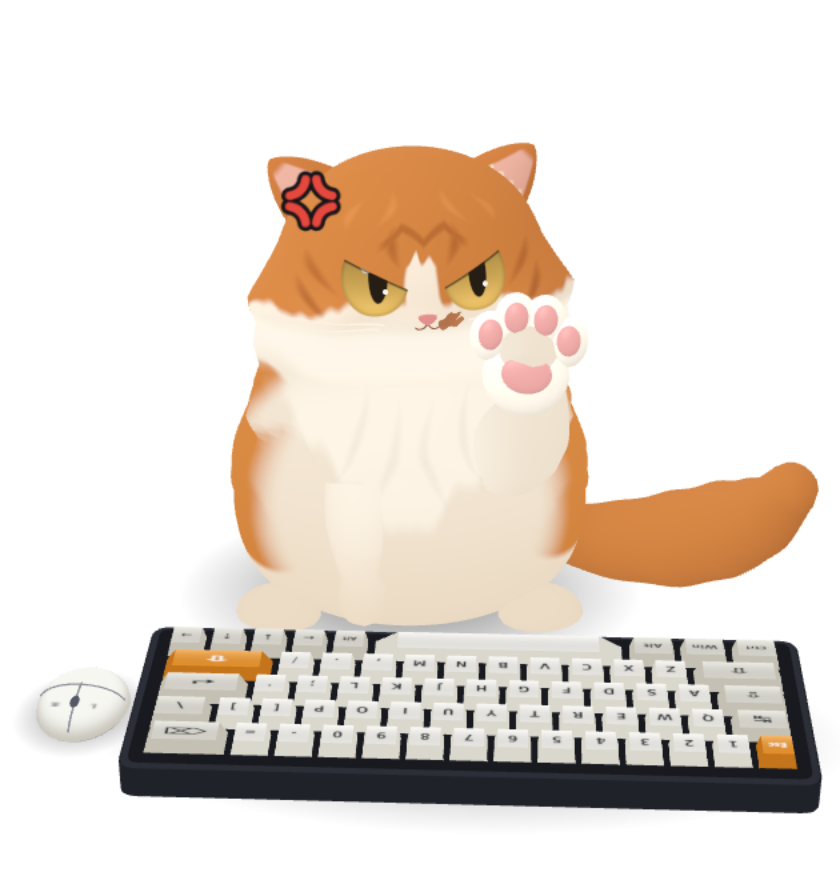
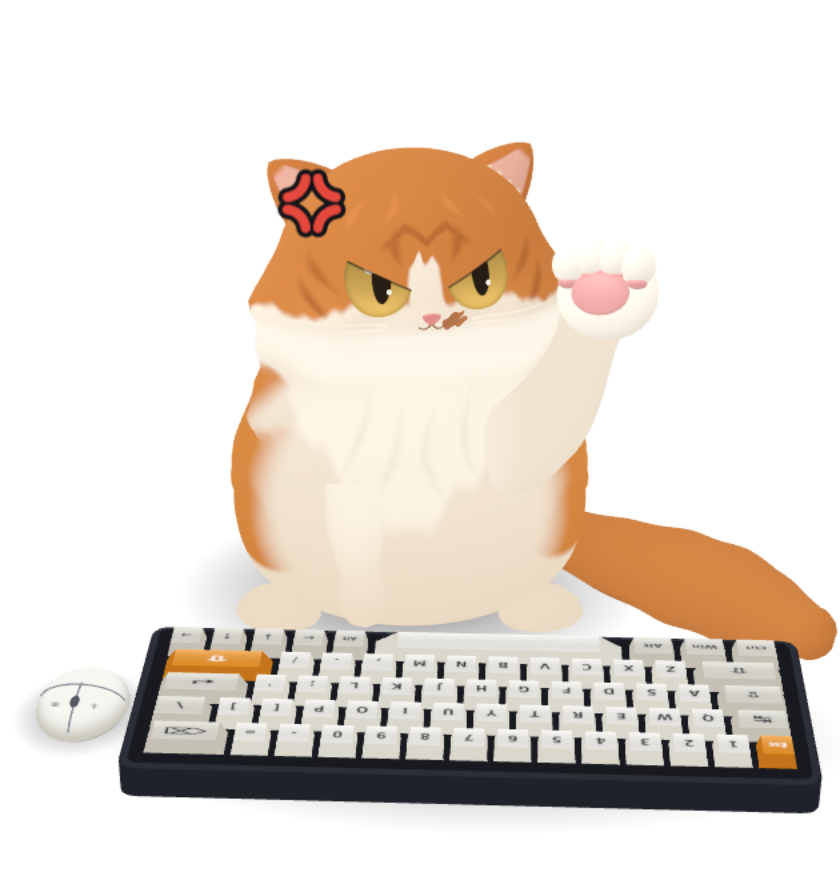
feat: curl swat paw into a half-fist and stamp screen paw prints

diff --git a/src/catEngine3d.ts b/src/catEngine3d.ts
@@ -6,6 +6,7 @@ import type { KeyboardOrientation, TailKeyMode } from './catEngine';
 import { DEFAULT_TAIL_KEY_IDS } from './catEngine';
 import { catAudio } from './audio';
 import { HeadPatSwat, normalizeSwatChance } from './headPatSwat';
+import { ScreenPawPrint3D } from './screenPawPrint3d';
 import {
   FurShaderSystem,
   resolveFurPalette3D,
@@ -516,7 +517,13 @@ export class KuroCatEngine3D {
 
   public setTailPickerActive(active: boolean): void {
     this.tailPickerActive = active;
-    if (active) this.headPatSwat.cancel();
+    if (active) this.cancelHeadPatSwat();
+  }
+
+  private cancelHeadPatSwat(): void {
+    this.headPatSwat.cancel();
+    this.swatPalm.visible = false;
+    this.pawPrint.clear();
   }
 
   public hitTestKeyAtClientPoint(clientX: number, clientY: number) {
@@ -614,8 +621,10 @@ export class KuroCatEngine3D {
   // Shared materials updated on skin switch
   private readonly pawMat: THREE.ShaderMaterial;
   private readonly swatPalm = new THREE.Group();
+  private readonly swatToes: THREE.Group[] = [];
   private readonly swatPalmMat = createHeadsetMaterial('#fff7e9', 0.06, 0.10, '#fff4df');
   private readonly swatPadMat = createHeadsetMaterial('#e7a5a2', 0.10, 0.12, '#f9d4c8');
+  private readonly pawPrint: ScreenPawPrint3D;
   private readonly hindPaws: THREE.Mesh[] = [];
   private readonly toeMat = new THREE.MeshBasicMaterial({ color: '#343640', depthTest: true });
   private readonly lidArcMat = new THREE.MeshBasicMaterial({
@@ -850,6 +859,8 @@ export class KuroCatEngine3D {
     this.renderer.outputColorSpace = THREE.SRGBColorSpace;
 
     this.camera = new THREE.PerspectiveCamera(22, 1.35, 0.1, 100);
+    this.scene.add(this.camera);
+    this.pawPrint = new ScreenPawPrint3D(this.camera);
     this.desk = new KeyboardAndMouse3D(this.scene);
     this.pawMat = this.furSystem.createMaterial('PAW');
 
@@ -1175,30 +1186,30 @@ export class KuroCatEngine3D {
       });
     }
 
-    // Two merged meshes form a white mitten and five softly raised pink pads.
-    // They share the existing studio shader, so this stays a true 3D paw.
+    // Compact half-fist: four adjacent toes curl over the palm, rather than
+    // spreading into an open hand. Their pads turn underneath on the punch.
     const padSphere = new THREE.SphereGeometry(1, 18, 12);
-    const lobes = [
-      [0, -0.028, 0, 0.135, 0.125, 0.065],
-      [-0.12, 0.084, 0.004, 0.063, 0.078, 0.060],
-      [-0.045, 0.142, 0.004, 0.067, 0.083, 0.061],
-      [0.045, 0.142, 0.004, 0.067, 0.083, 0.061],
-      [0.12, 0.084, 0.004, 0.063, 0.078, 0.060],
-    ];
-    const parts = (pads: boolean) => lobes.map(([x, y, z, sx, sy, sz], index) => ({
-      geo: padSphere,
-      matrix: new THREE.Matrix4().compose(
-        new THREE.Vector3(x, y, pads ? 0.066 : z),
-        new THREE.Quaternion(),
-        pads ? new THREE.Vector3(index === 0 ? 0.078 : 0.037, index === 0 ? 0.060 : 0.047, 0.022)
-          : new THREE.Vector3(sx, sy, sz),
-      ),
-    }));
+    const pawPart = (mat: THREE.Material, pos: number[], size: number[]) => {
+      const mesh = new THREE.Mesh(padSphere, mat);
+      mesh.position.set(pos[0], pos[1], pos[2]);
+      mesh.scale.set(size[0], size[1], size[2]);
+      return mesh;
+    };
     this.swatPalm.add(
-      new THREE.Mesh(mergeStaticGeometries(parts(false)), this.swatPalmMat),
-      new THREE.Mesh(mergeStaticGeometries(parts(true)), this.swatPadMat),
+      pawPart(this.swatPalmMat, [0, -0.025, 0], [0.142, 0.128, 0.100]),
+      pawPart(this.swatPadMat, [0, -0.041, 0.098], [0.080, 0.062, 0.021]),
     );
-    padSphere.dispose();
+    for (let i = 0; i < 4; i++) {
+      const toe = new THREE.Group();
+      const edge = i === 0 || i === 3;
+      toe.position.set((i - 1.5) * 0.063, edge ? 0.057 : 0.074, 0.027);
+      toe.add(
+        pawPart(this.swatPalmMat, [0, 0.045, 0.012], [0.047, 0.078, 0.055]),
+        pawPart(this.swatPadMat, [0, 0.056, 0.062], [0.028, 0.036, 0.016]),
+      );
+      this.swatToes.push(toe);
+      this.swatPalm.add(toe);
+    }
     this.swatPalm.visible = false;
     this.scene.add(this.swatPalm);
 
@@ -1548,7 +1559,7 @@ export class KuroCatEngine3D {
   }
 
   public stop(): void {
-    this.headPatSwat.cancel();
+    this.cancelHeadPatSwat();
     if (this.rafId !== null) {
       cancelAnimationFrame(this.rafId);
       this.rafId = null;
@@ -1594,6 +1605,7 @@ export class KuroCatEngine3D {
       this.elapsed - this.cursorActiveAt < 2.4 ||
       this.isCross ||
       this.headPatSwat.isActive(this.elapsed * 1000) ||
+      this.pawPrint.sprite.visible ||
       this.petting ||
       this.elapsed < this.curiousUntil ||
       this.popups.length > 0 ||
@@ -1637,7 +1649,7 @@ export class KuroCatEngine3D {
   };
 
   public setCatSkin(skin: CatSkinConfig): void {
-    if (this.currentSkin?.id !== skin.id) this.headPatSwat.cancel();
+    if (this.currentSkin?.id !== skin.id) this.cancelHeadPatSwat();
     this.currentSkin = skin;
     this.swatPalmMat.uniforms.uBase.value.set(skin.bellyBibColor ?? skin.pawColor ?? skin.furColor);
     const p = resolveFurPalette3D(skin, this.renderStyle);
@@ -1781,7 +1793,7 @@ export class KuroCatEngine3D {
   }
 
   public setPrivacyMode(active: boolean): void {
-    if (active) this.headPatSwat.cancel();
+    if (active) this.cancelHeadPatSwat();
     this.privacyMode = active;
     if (active) {
       this.desk.releaseAllKeys();
@@ -2704,11 +2716,19 @@ export class KuroCatEngine3D {
     this.swatPalm.visible = Boolean(longhair && swatPose && swatPose.lift > 0.12 && !this.privacyMode);
     if (this.swatPalm.visible && swatPose) {
       this.swatPalm.position.copy(this.paws.R.pos);
-      // Turn the underside toward the viewer while raising and sweeping.
+      // Show the underside on the windup; curl the toes into rounded knuckles
+      // and tip the fist forward at contact. The central pad stays visible.
       this.swatPalm.quaternion.copy(this.camera.quaternion);
-      this.swatPalm.rotateZ(-0.22 + swatPose.x * 0.20);
-      this.swatPalm.scale.setScalar(swatPose.weight * (1 + swatPose.reach * 0.15));
+      this.swatPalm.rotateZ(-0.20 + swatPose.x * 0.15);
+      this.swatPalm.rotateY(-0.28);
+      this.swatPalm.rotateX(-0.18 * swatPose.grip);
+      this.swatPalm.scale.setScalar(swatPose.weight * (1.12 + swatPose.reach * 0.18));
+      for (const toe of this.swatToes) toe.rotation.x = 0.65 + swatPose.grip * 1.45;
     }
+    if (this.headPatSwat.takeImpact(t * 1000)) {
+      this.pawPrint.stamp(this.paws.R.pos, this.camera, t);
+    }
+    this.pawPrint.update(t, this.camera);
 
     // 10) Floating Key Bubbles, Anger Mark 💢 & Sleep Zzz FX
     for (let i = this.popups.length - 1; i >= 0; i--) {

diff --git a/src/screenPawPrint3d.ts b/src/screenPawPrint3d.ts
@@ -1,0 +1,76 @@
+import * as THREE from 'three';
+import { smoothstep } from './keyboard3d';
+
+const PRINT_LIFETIME = 1.65;
+
+function makePawPrintTexture(): THREE.CanvasTexture {
+  const canvas = document.createElement('canvas');
+  canvas.width = canvas.height = 256;
+  const ctx = canvas.getContext('2d')!;
+  ctx.fillStyle = '#e28398';
+  ctx.shadowColor = '#d95f8266';
+  ctx.shadowBlur = 5;
+  // A pressed, slightly squashed paw pad, with four separate toe impressions.
+  ctx.beginPath();
+  ctx.moveTo(128, 129);
+  ctx.bezierCurveTo(107, 126, 98, 147, 83, 165);
+  ctx.bezierCurveTo(61, 193, 84, 215, 108, 203);
+  ctx.quadraticCurveTo(128, 194, 148, 203);
+  ctx.bezierCurveTo(172, 215, 195, 193, 173, 165);
+  ctx.bezierCurveTo(158, 147, 149, 126, 128, 129);
+  ctx.fill();
+  for (const [x, y, rotation] of [[62, 113, -0.5], [103, 79, -0.15], [151, 79, 0.15], [192, 113, 0.5]]) {
+    ctx.beginPath();
+    ctx.ellipse(x, y, 20, 28, rotation, 0, Math.PI * 2);
+    ctx.fill();
+  }
+  const texture = new THREE.CanvasTexture(canvas);
+  texture.colorSpace = THREE.SRGBColorSpace;
+  return texture;
+}
+
+/** Camera-space ink: stays on the glass as the paw retracts or the cat rotates. */
+export class ScreenPawPrint3D {
+  public readonly sprite = new THREE.Sprite(new THREE.SpriteMaterial({
+    map: makePawPrintTexture(),
+    transparent: true,
+    depthTest: false,
+    depthWrite: false,
+    toneMapped: false,
+    rotation: -0.18,
+  }));
+  private readonly anchor = new THREE.Vector3();
+  private stampedAt = -Infinity;
+
+  constructor(camera: THREE.PerspectiveCamera) {
+    this.sprite.visible = false;
+    this.sprite.renderOrder = 1000;
+    camera.add(this.sprite);
+  }
+
+  public clear(): void {
+    this.stampedAt = -Infinity;
+    this.sprite.visible = false;
+  }
+
+  public stamp(worldPoint: THREE.Vector3, camera: THREE.PerspectiveCamera, now: number): void {
+    camera.updateMatrixWorld();
+    this.anchor.copy(worldPoint).project(camera);
+    this.stampedAt = now;
+    this.update(now, camera);
+  }
+
+  public update(now: number, camera: THREE.PerspectiveCamera): void {
+    const age = now - this.stampedAt;
+    this.sprite.visible = age >= 0 && age < PRINT_LIFETIME;
+    if (!this.sprite.visible) return;
+    // z=-1 is beyond the camera near plane. Position and size use the same
+    // projection, keeping the imprint fixed through orbit/resize and above fur.
+    const halfHeight = Math.tan(THREE.MathUtils.degToRad(camera.fov / 2));
+    this.sprite.position.set(this.anchor.x * halfHeight * camera.aspect, this.anchor.y * halfHeight, -1);
+    const settle = 1 + 0.12 * (1 - smoothstep(0, 0.16, age));
+    this.sprite.scale.setScalar(halfHeight * 0.34 * settle);
+    // Let the fist land before the ink appears over it.
+    this.sprite.material.opacity = 0.88 * smoothstep(0, 0.08, age) * (1 - smoothstep(0.65, PRINT_LIFETIME, age));
+  }
+}

diff --git a/src/headPatSwat.ts b/src/headPatSwat.ts
@@ -1,6 +1,7 @@
 export const DEFAULT_HEAD_PAT_SWAT_CHANCE = 0.25;
 export const SWAT_DURATION_MS = 780;
 export const SWAT_COOLDOWN_MS = 3000;
+export const SWAT_IMPACT_MS = SWAT_DURATION_MS * 0.52;
 
 export function normalizeSwatChance(value: number | undefined): number {
   return typeof value === 'number' && Number.isFinite(value)
@@ -11,18 +12,19 @@ export function normalizeSwatChance(value: number | undefined): number {
 // x/lift/reach are local to the 3D cat;
 // the original body, markings, tail and materials continue rendering throughout.
 const POSES = [
-  { t: 0, x: 0.32, lift: 0, reach: 0 },
-  { t: 0.22, x: 0.95, lift: 0.65, reach: 0.1 },
-  { t: 0.38, x: 0.65, lift: 0.84, reach: 0.65 },
-  { t: 0.52, x: -0.55, lift: 0.7, reach: 1 },
-  { t: 0.72, x: 0.2, lift: 0.4, reach: 0.25 },
-  { t: 1, x: 0.32, lift: 0, reach: 0 },
+  { t: 0, x: 0.32, lift: 0, reach: 0, grip: 0.35 },
+  { t: 0.22, x: 0.95, lift: 0.65, reach: 0.1, grip: 0.35 },
+  { t: 0.38, x: 1.05, lift: 0.95, reach: 0.2, grip: 0.55 },
+  { t: 0.52, x: 1.3, lift: 1.12, reach: 1.15, grip: 1 },
+  { t: 0.72, x: 0.4, lift: 0.4, reach: 0.25, grip: 0.7 },
+  { t: 1, x: 0.32, lift: 0, reach: 0, grip: 0.35 },
 ];
 
 export class HeadPatSwat {
   public chance = DEFAULT_HEAD_PAT_SWAT_CHANCE;
   private startedAt = -Infinity;
   private rolledAt = -Infinity;
+  private impactPending = false;
   private last: { x: number; y: number; at: number } | null = null;
   private direction: { x: number; y: number } | null = null;
   private travel = 0;
@@ -37,6 +39,7 @@ export class HeadPatSwat {
 
   public cancel(): void {
     this.startedAt = -Infinity;
+    this.impactPending = false;
     this.resetGesture();
   }
 
@@ -90,8 +93,16 @@ export class HeadPatSwat {
     this.rolledAt = now; // Normal reactions also consume this roll's cooldown.
     if (random() >= normalizeSwatChance(this.chance)) return false;
     this.startedAt = now;
+    this.impactPending = true;
     this.resetGesture();
     return true;
+  }
+
+  /** Consume once on the first frame reaching contact, including a skipped frame. */
+  public takeImpact(now: number): boolean {
+    if (!this.impactPending || now < this.startedAt + SWAT_IMPACT_MS) return false;
+    this.impactPending = false;
+    return this.isActive(now);
   }
 
   public pose(now: number) {
@@ -108,6 +119,7 @@ export class HeadPatSwat {
       x: mix(a.x, b.x),
       lift: mix(a.lift, b.lift),
       reach: mix(a.reach, b.reach),
+      grip: mix(a.grip, b.grip),
       weight: Math.min(1, t / 0.12, (1 - t) / 0.18),
       anger: Math.min(1, t / 0.08, (1 - t) / 0.22),
     };

diff --git a/docs/skins/orange-white-longhair/head-pat-swat.md b/docs/skins/orange-white-longhair/head-pat-swat.md
@@ -1,14 +1,24 @@
-# 发财 3D：生气挥爪（DEV-156）
+# 发财 3D：生气出拳与屏幕爪印（DEV-156）
 
 在猫咪头部来回抚摸，默认有 25% 概率生气并伸爪挥一下。右键菜单「摸头挥爪概率」可选关闭、25%、50%、100%；MCP `update_settings` 和 `settings.json` 的 `headPatSwatChance` 支持任意 0～1 数值。旧配置默认 0.25。
 
-![发财生气、举爪露出粉色肉垫、挥爪后恢复](head-pat-swat.gif)
+![发财生气、半握拳露肉垫、出拳并留下屏幕爪印](head-pat-swat.gif)
 
 ## 表情与前爪
 
-动作播放 780ms，依次抬爪、掌心朝向观众、横挥、收爪。举爪时露出白手套中的粉色掌垫和四个趾垫，全部为有厚度的 3D 网格，使用项目已有的立体着色器；角色身体、鼻旁橘斑、白鼻梁、白毛领与橘色大尾巴继续由原长毛模型绘制。
+动作播放 780ms，依次半握抬爪、蓄力、向屏幕出拳、收爪。四个趾头并拢向掌心卷起，出拳时进一步收紧，形成圆润的拳头；举爪阶段仍能看到粉色掌垫和卷起的趾垫。白手套、掌垫和趾垫全部为有厚度的 3D 网格，使用项目已有的立体着色器；角色身体、鼻旁橘斑、白鼻梁、白毛领与橘色大尾巴继续由原长毛模型绘制。
 
 生气表情在抬爪初段快速出现，并覆盖挥爪阶段：眼睑向鼻梁压低、瞳孔收紧、双耳折成飞机耳，头侧出现怒气符号。动作结束后眼睛、怒气符号及肉垫收回，不写入长期生气状态；隐私模式可立即中断。挥爪时暂停普通眯眼呼噜及好奇表情。
+
+![半握抬爪时可见肉垫](head-pat-swat.png)
+
+## 屏幕爪印
+
+出拳接触点约在第 406ms，每次动作只盖一次粉色爪印。爪印在接触后的 80ms 内显现，收拳后继续留在桌宠透明窗口内的屏幕落点，先停留再淡出，约 1.65 秒清除。爪印固定在屏幕坐标，收爪或转动视角不会带走它，也不增加鼠标捕获区域。
+
+爪印使用透明纹理和相机空间精灵覆盖在角色前方；角色仍以原来的透明背景渲染。隐私模式、换肤、停止渲染和进入尾巴选键都会立即清除爪印，并取消尚未发生的接触事件。
+
+![收拳后屏幕落点仍保留爪印](head-pat-swat-print.png)
 
 ## 仅提供 3D 发财
 
@@ -20,9 +30,9 @@
 
 桌面端通过 `kuro-cursor` 将归一化光标位置与粗略 `overCat` 判定传给渲染器。`src/catEngine3d.ts` 将桌面和网页两条指针路径都细化到真实头部射线检测。
 
-`src/headPatSwat.ts` 负责手势、抽签冷却、前爪关键姿势与生气表情包络。至少两次 14 逻辑像素的反向移动才是有效抚摸；过滤静止悬停、抖动、单次路过及瞬移。每次抽签后冷却 3 秒，普通反应也占用冷却，避免连续移动反复抽签。鼠标／按键按住、隐私模式、尾巴选键期间不启动新动作。
+`src/headPatSwat.ts` 负责手势、抽签冷却、前爪姿势／握拳程度、生气表情包络及一次性的接触事件。至少两次 14 逻辑像素的反向移动才是有效抚摸；过滤静止悬停、抖动、单次路过及瞬移。每次抽签后冷却 3 秒，普通反应也占用冷却，避免连续移动反复抽签。鼠标／按键按住、隐私模式、尾巴选键期间不启动新动作。
 
-`src/longhair3d.ts` 的眼睛材质接收生气程度，切出斜上眼睑并收紧瞳孔；现有耳朵与怒气特效使用同一表情程度。3D 白手套、掌垫和趾垫随右前爪移动，举爪时将掌心转向观众。没有独立的 2D 挥爪素材。
+`src/longhair3d.ts` 的眼睛材质接收生气程度，切出斜上眼睑并收紧瞳孔；现有耳朵与怒气特效使用同一表情程度。`src/catEngine3d.ts` 驱动四个趾头卷曲；`src/screenPawPrint3d.ts` 负责落点投影、相机空间定位及爪印显现／淡出。没有独立的 2D 挥爪素材。
 
 ## 验证与复现
 
@@ -38,6 +48,8 @@ cargo test --locked --manifest-path src-tauri/Cargo.toml --features facai-only -
 cargo build --locked --manifest-path src-tauri/Cargo.toml
 ```
 
-可用 `PLAYWRIGHT_CHROMIUM_EXECUTABLE_PATH` 指定已安装的 Chromium。浏览器检查自行启动并停止 1456 端口的 Vite；加 `-- --capture` 将 30 帧透明 3D PNG 写入已忽略的 `artifacts/head-pat-swat/`。预览以 100% 概率触发，再按固定时间采样；概率边界由单元测试验证。
+可用 `PLAYWRIGHT_CHROMIUM_EXECUTABLE_PATH` 指定已安装的 Chromium。浏览器检查自行启动并停止 1456 端口的 Vite；加 `-- --capture` 将 80 帧透明 3D PNG 写入已忽略的 `artifacts/head-pat-swat/`。预览以 100% 概率触发，再按每帧 32ms 连续推进，包含抬手、出拳、收拳和爪印完整淡出；概率边界由单元测试验证。
 
-验证覆盖概率、冷却、手势过滤、表情出现与恢复、肉垫可见且朝向观众、隐私中断、旧 2D 配置、主窗口与菜单、无图形加速时不回退 2D、3D 尾巴选键及 65%／108 键帽射线。原生窗口透明／置顶的验证范围见 PR；Windows／macOS 尚未实机复验。
+文档中的两张 PNG 均为 840×880 RGBA 透明截图；GIF 为 600×628、约 2.52 秒，使用浅灰背景展示爪印淡出。预览来自实际 3D 渲染器。
+
+验证覆盖概率、冷却、手势过滤、半握拳在接触时收紧、表情出现与恢复、举爪肉垫可见、单次接触事件、爪印固定／持续／淡出／清除、隐私中断、旧 2D 配置、主窗口与菜单、无图形加速时不回退 2D、3D 尾巴选键及 65%／108 键帽射线。原生窗口透明／置顶的验证范围见 PR；Windows／macOS 尚未实机复验。
